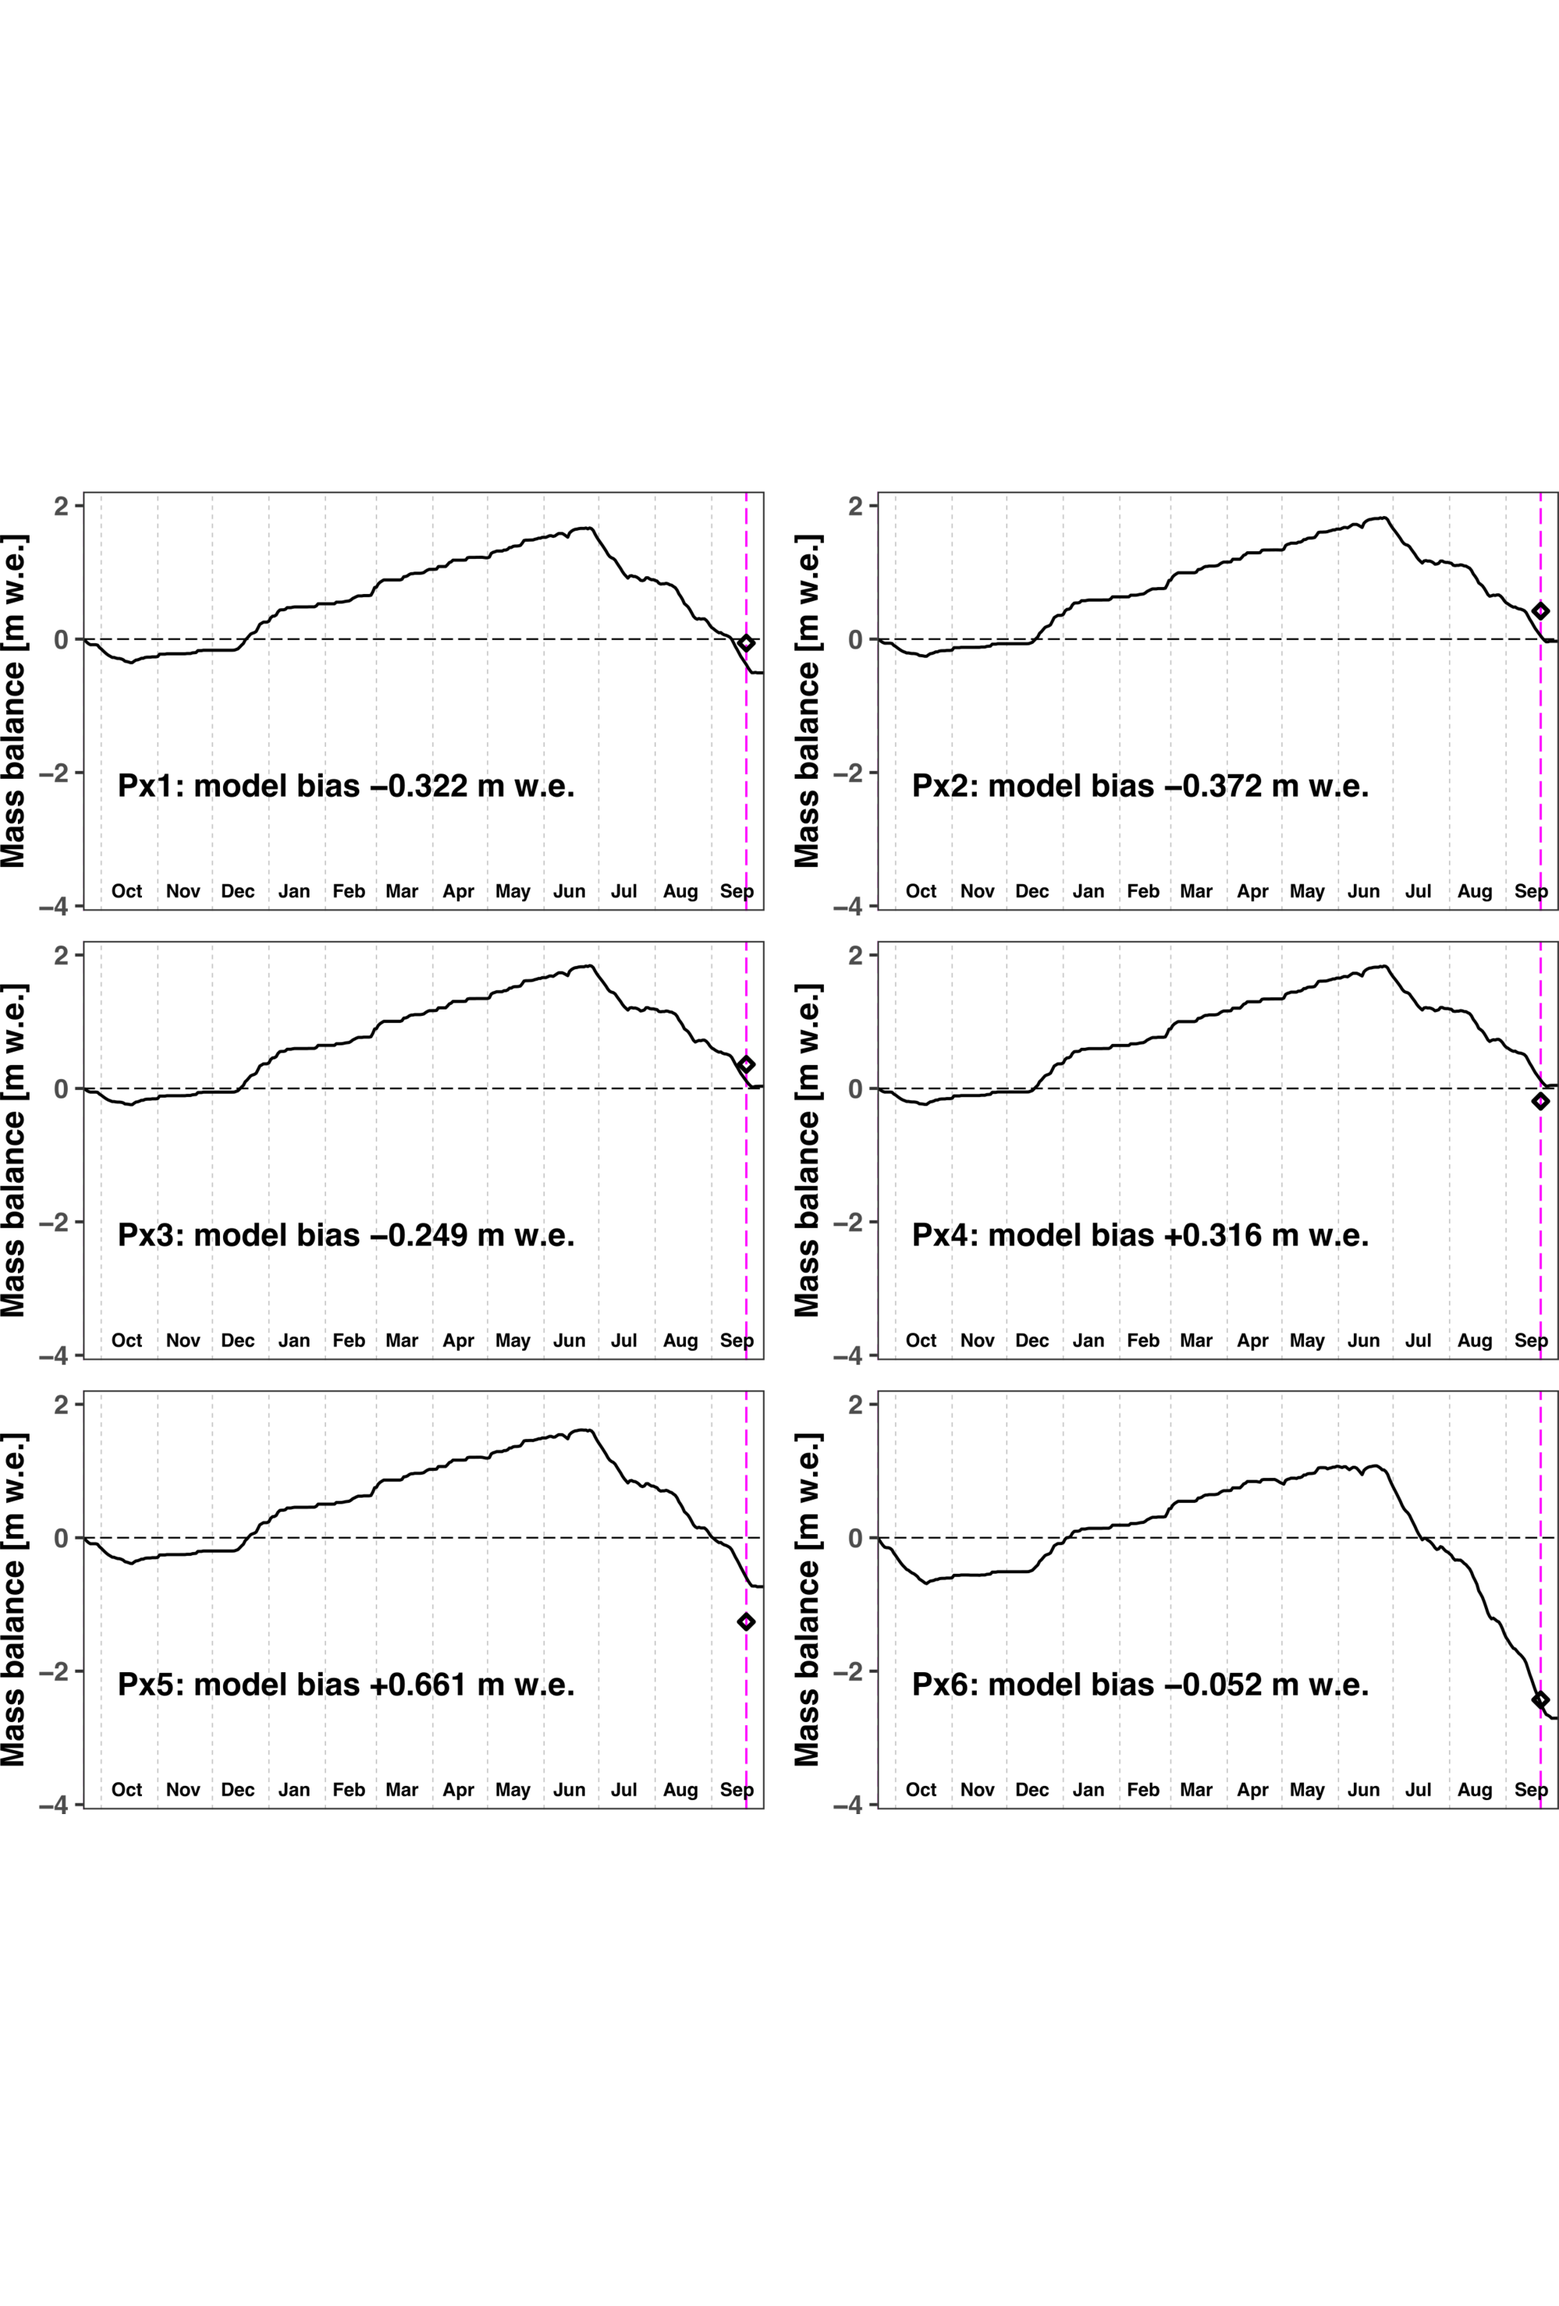
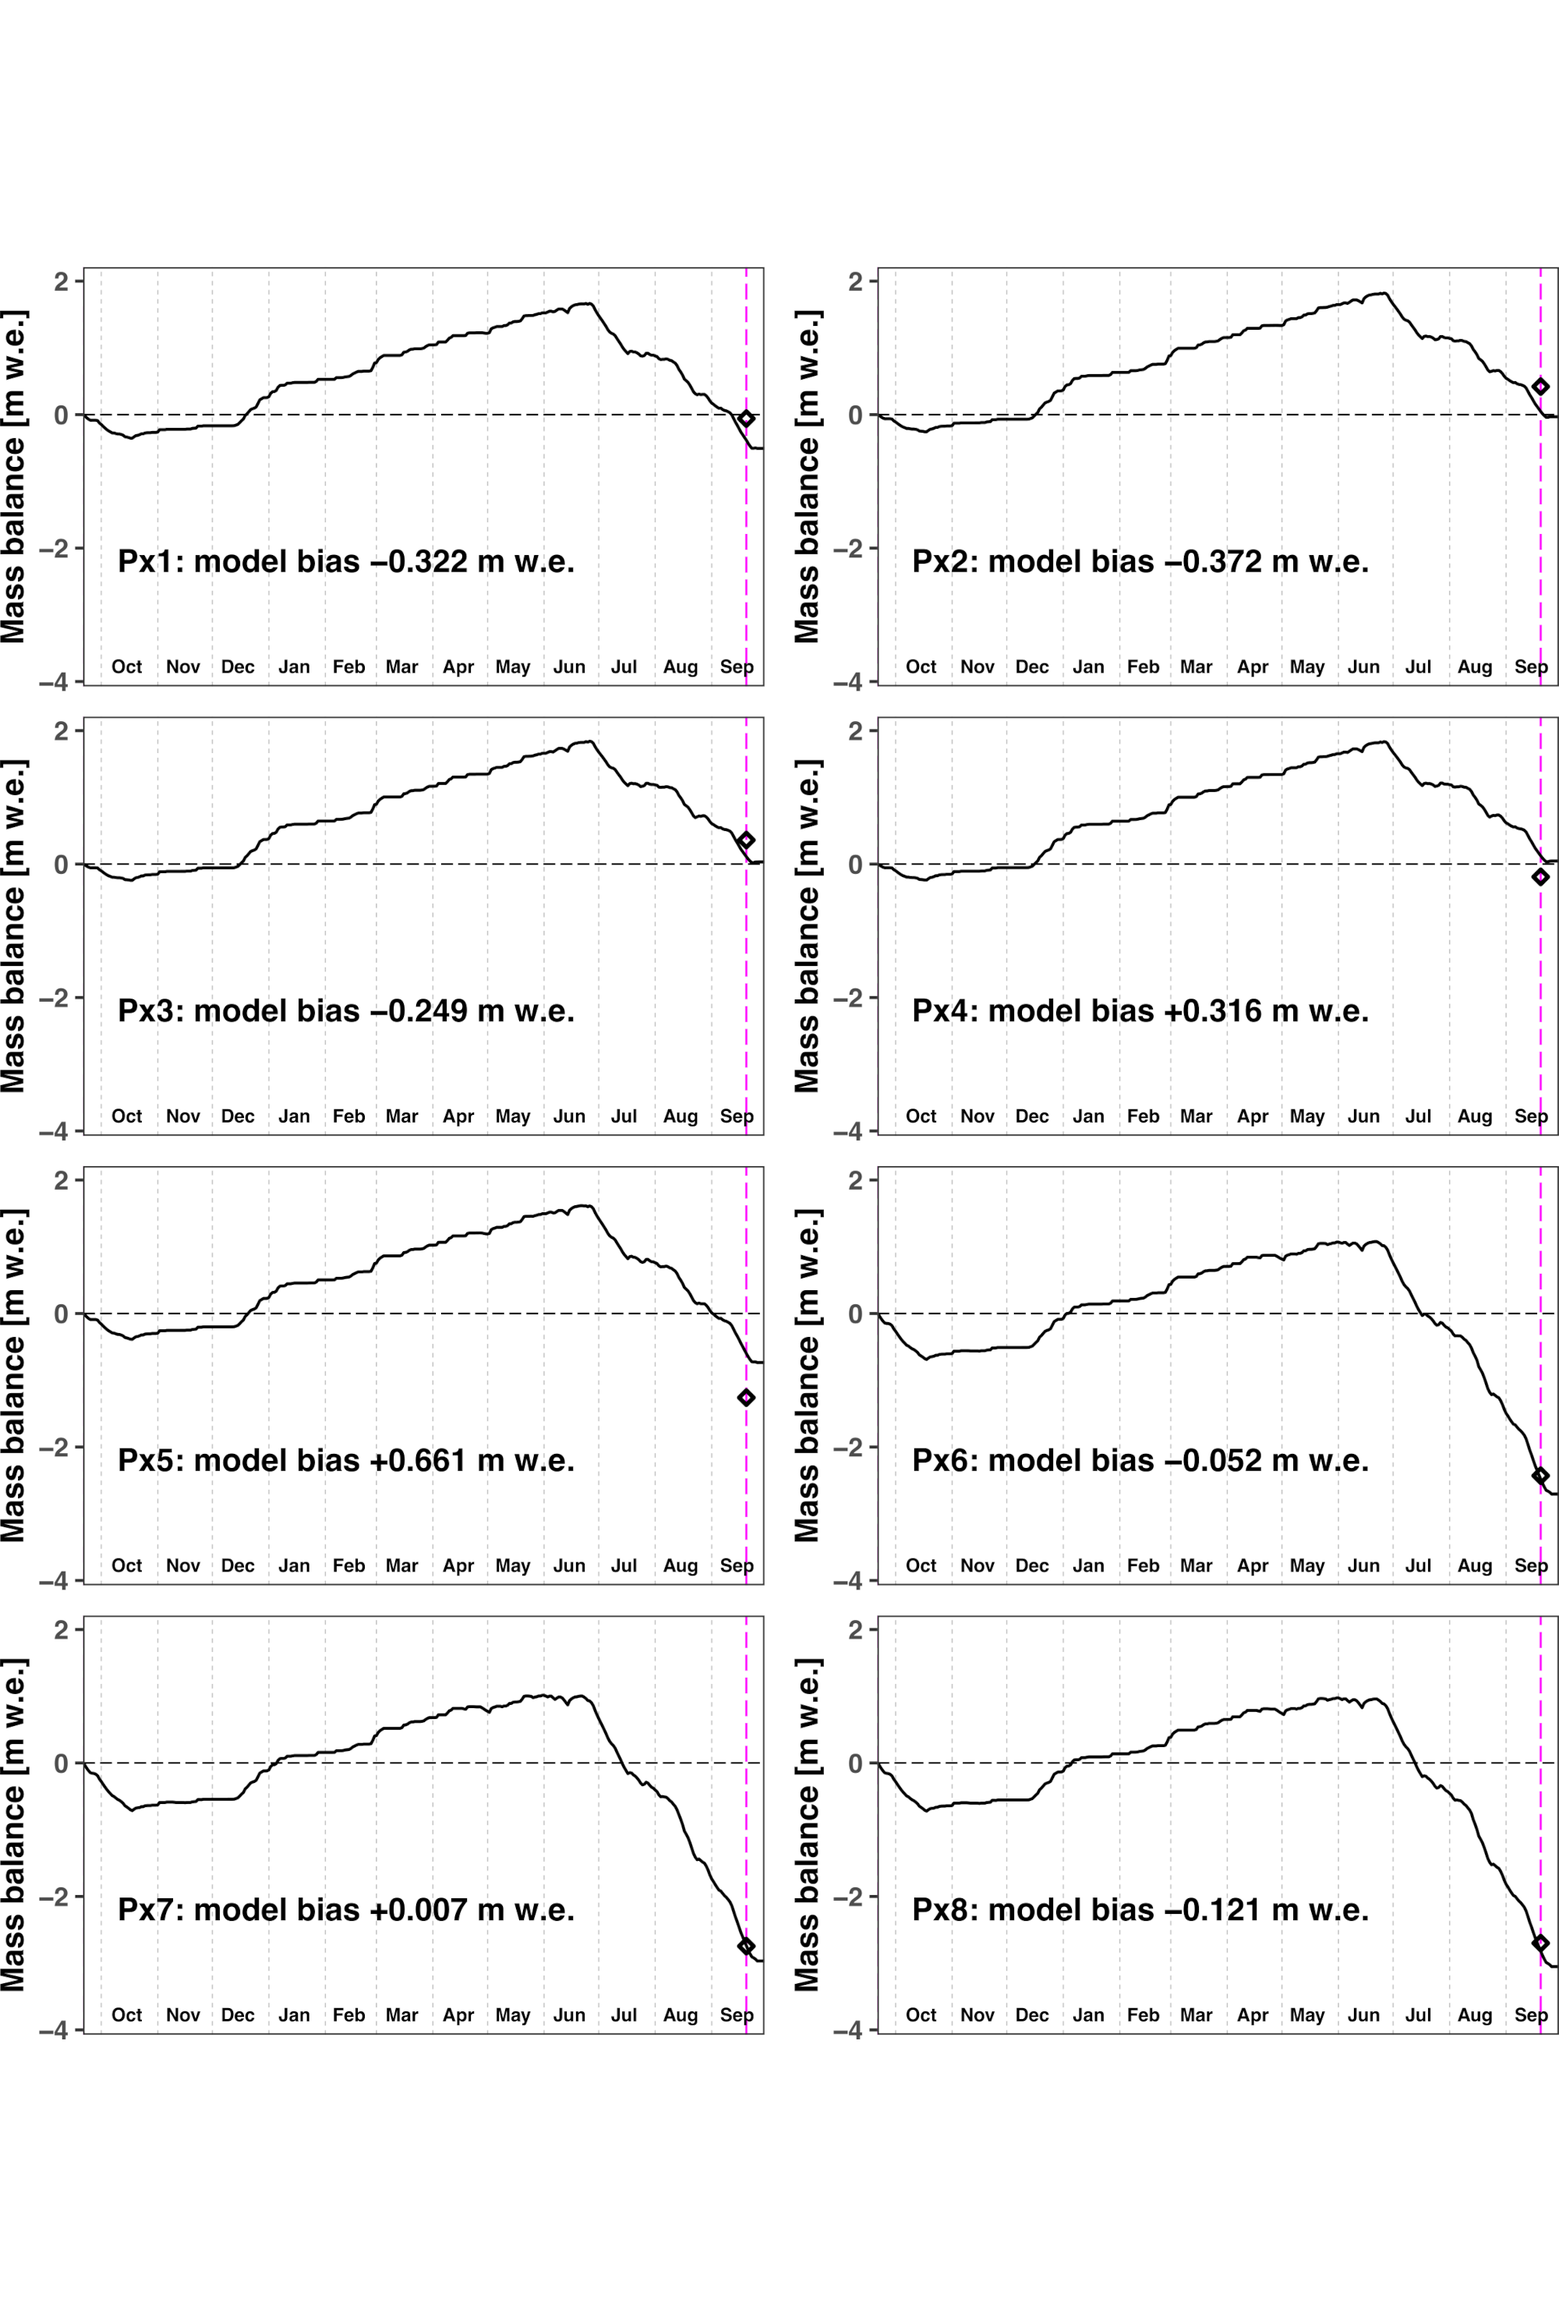
Updated screens

diff --git a/README.md b/README.md
@@ -68,10 +68,10 @@ DMBSim is implemented in R (with some C++ routines for performance), is fully cr
       <a href="screenshots/full/swe_map.png">
         <img src="screenshots/thumbs/swe_map.png"
              width="90%"
-             alt="Map of snow-water equivalent">
+             alt="Maps of snow-water equivalent">
       </a>
       <br>
-        <sub>Map of snow-water equivalent</sub>
+        <sub>Maps of snow-water equivalent</sub>
     </td>
     <td align="center" width="33%">
       <a href="screenshots/full/snowdist_map.png">
@@ -128,10 +128,10 @@ DMBSim is implemented in R (with some C++ routines for performance), is fully cr
       <a href="screenshots/full/mb_vs_ele.png">
         <img src="screenshots/thumbs/mb_vs_ele.png"
              width="90%"
-             alt="Altitudinal profile of mass balance">
+             alt="Altitudinal profiles of mass balance">
       </a>
       <br>
-      <sub>Altitudinal profile of mass balance</sub>
+      <sub>Altitudinal profiles of mass balance</sub>
     </td>
       <td align="center" width="33%">
       <a href="screenshots/full/mb_stakes_plots.png">
